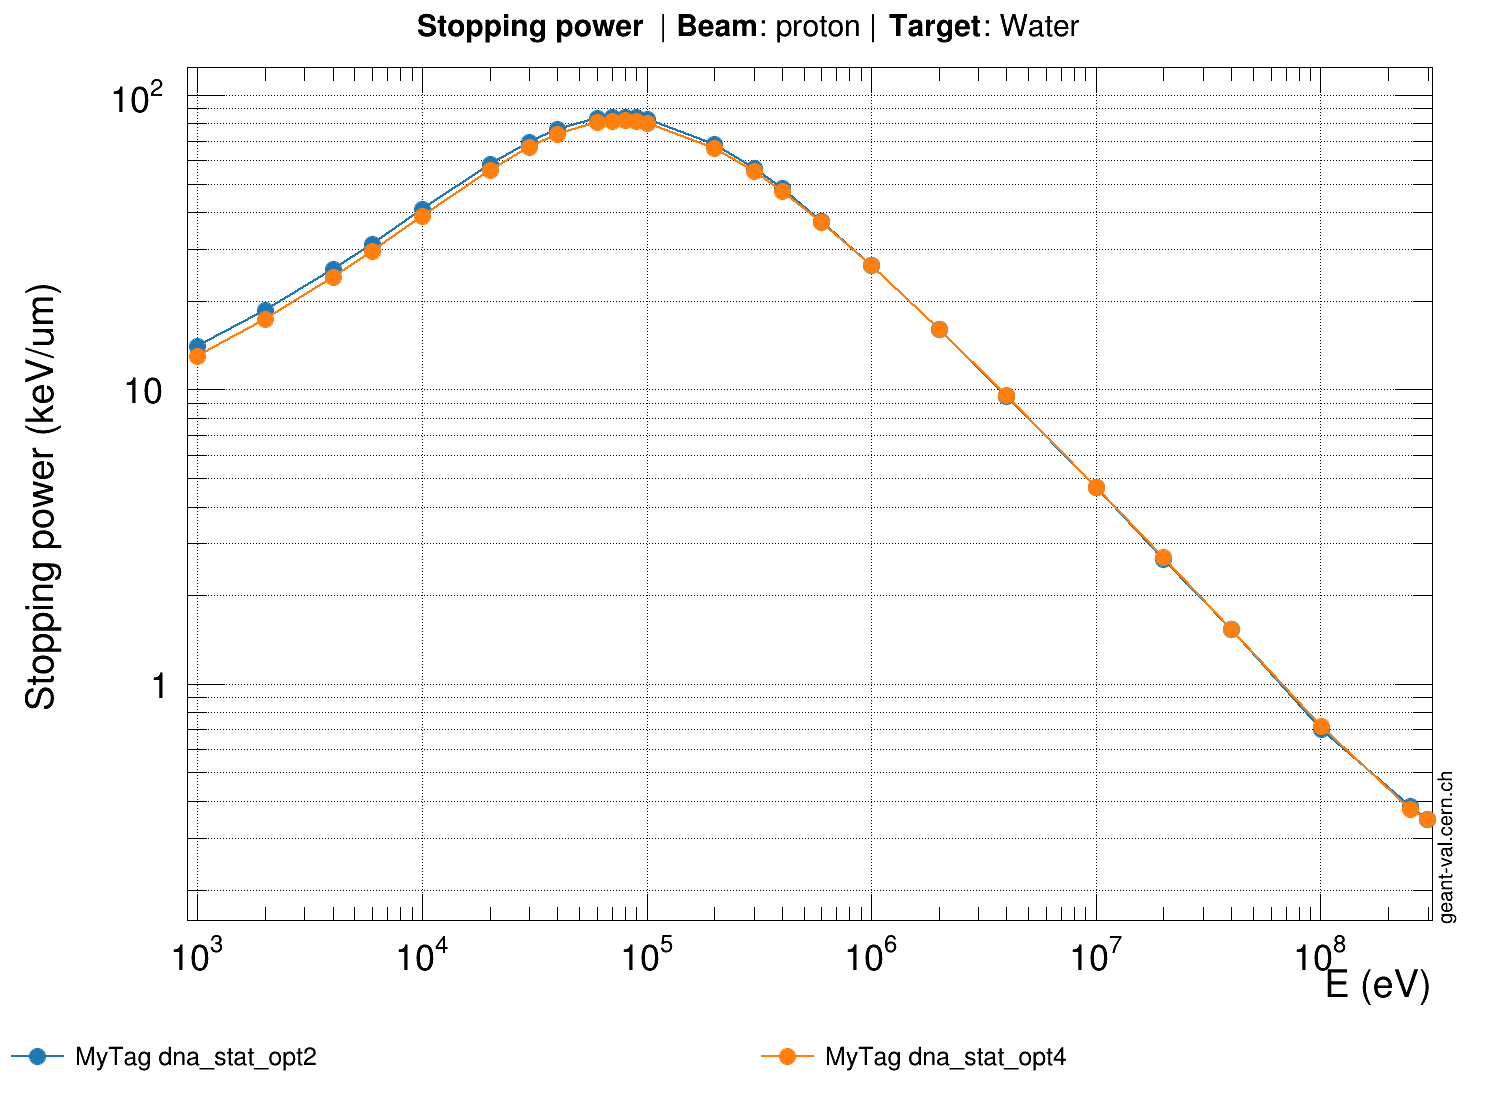
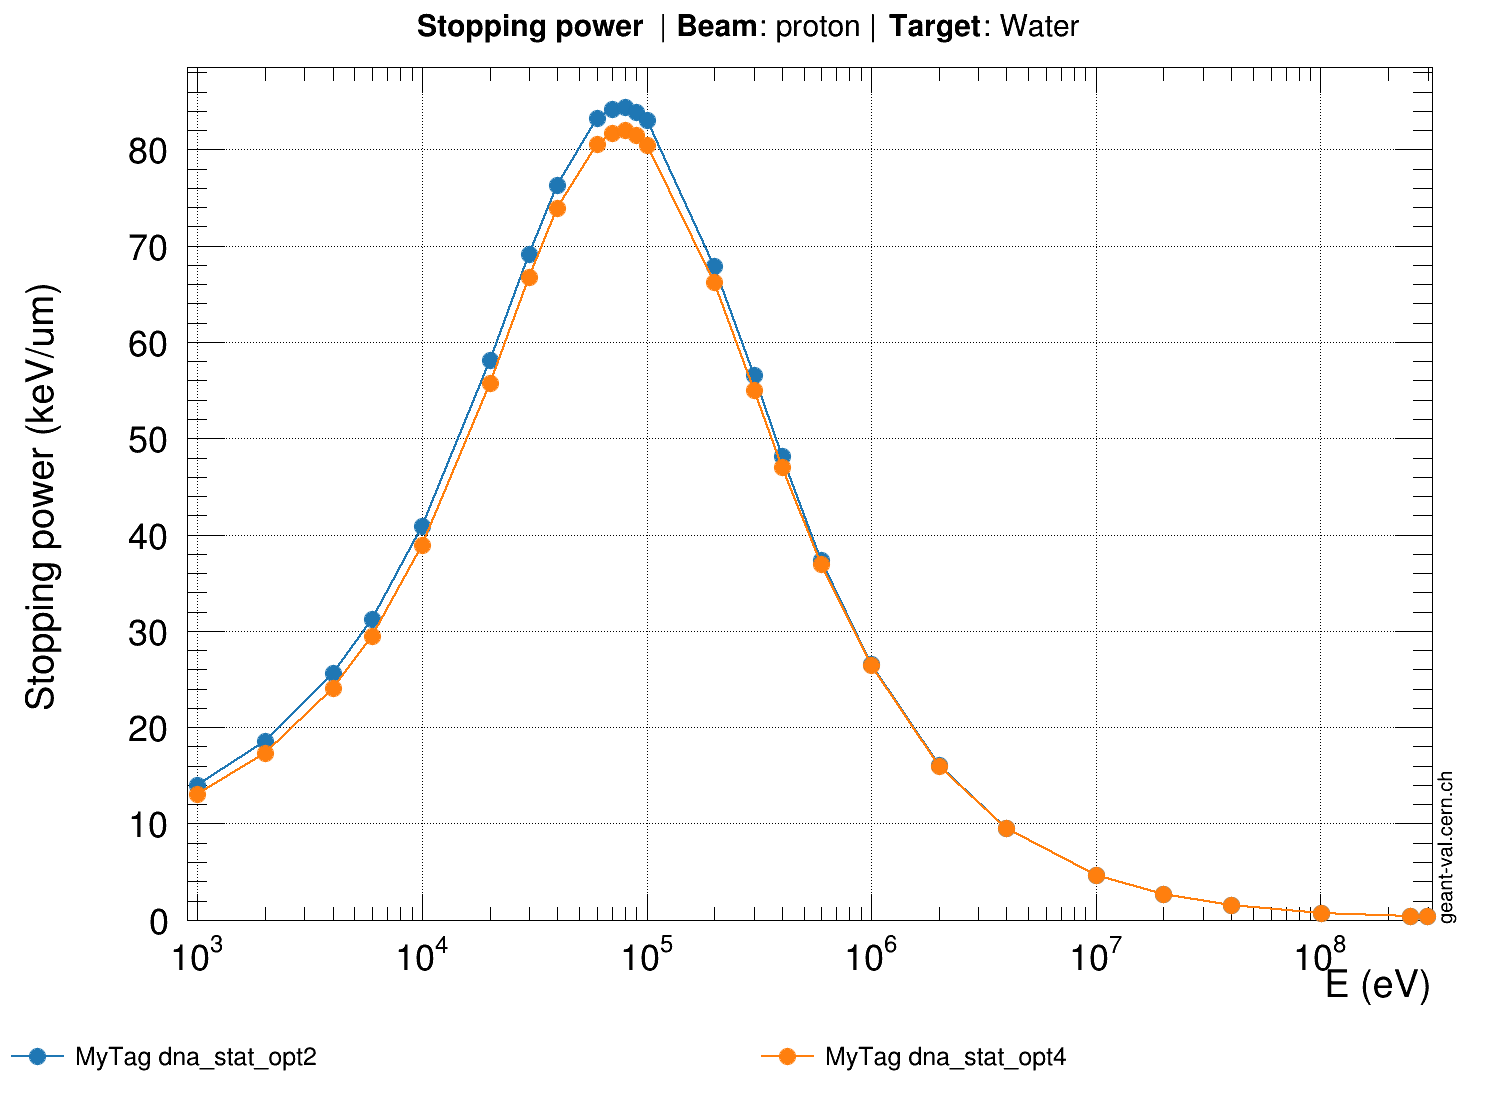
spower/proton.conf/MyTag : dim. juin  4 20:46:55 CEST 2023

diff --git a/assets/OUTPUTJSON/geant4/MyTag/x86_64/spower/proton.conf.c b/assets/OUTPUTJSON/geant4/MyTag/x86_64/spower/proton.conf.c
@@ -4438,3 +4438,243 @@ double gvp_id-1_yerrors[26] = {
   0,
   0
 };
+// Tool:               GEANT4
+// Version:            MyTag
+// Model:              dna_stat_opt2
+// Observable:         stopping power
+// Target:             Water
+// Beam Particle:      proton
+// Secondary Particle: None
+
+double gvp_id-1_x[26] = {
+  1000,
+  2000,
+  4000,
+  6000,
+  10000,
+  20000,
+  30000,
+  40000,
+  60000,
+  70000,
+  80000,
+  90000,
+  100000,
+  200000,
+  300000,
+  400000,
+  600000,
+  1e+06,
+  2e+06,
+  4e+06,
+  1e+07,
+  2e+07,
+  4e+07,
+  1.01e+08,
+  2.5e+08,
+  2.99e+08
+};
+double gvp_id-1_y[26] = {
+  13.9861,
+  18.5774,
+  25.6421,
+  31.2544,
+  40.8446,
+  58.0969,
+  69.1678,
+  76.3234,
+  83.2601,
+  84.1492,
+  84.3835,
+  83.8544,
+  83.0139,
+  67.9075,
+  56.5709,
+  48.137,
+  37.3264,
+  26.5294,
+  16.0267,
+  9.49555,
+  4.65711,
+  2.65028,
+  1.53794,
+  0.70328,
+  0.38599,
+  0.346701
+};
+double gvp_id-1_xerrors[26] = {
+  0,
+  0,
+  0,
+  0,
+  0,
+  0,
+  0,
+  0,
+  0,
+  0,
+  0,
+  0,
+  0,
+  0,
+  0,
+  0,
+  0,
+  0,
+  0,
+  0,
+  0,
+  0,
+  0,
+  0,
+  0,
+  0
+};
+double gvp_id-1_yerrors[26] = {
+  0,
+  0,
+  0,
+  0,
+  0,
+  0,
+  0,
+  0,
+  0,
+  0,
+  0,
+  0,
+  0,
+  0,
+  0,
+  0,
+  0,
+  0,
+  0,
+  0,
+  0,
+  0,
+  0,
+  0,
+  0,
+  0
+};
+// Tool:               GEANT4
+// Version:            MyTag
+// Model:              dna_stat_opt4
+// Observable:         stopping power
+// Target:             Water
+// Beam Particle:      proton
+// Secondary Particle: None
+
+double gvp_id-1_x[26] = {
+  1000,
+  2000,
+  4000,
+  6000,
+  10000,
+  20000,
+  30000,
+  40000,
+  60000,
+  70000,
+  80000,
+  90000,
+  100000,
+  200000,
+  300000,
+  400000,
+  600000,
+  1e+06,
+  2e+06,
+  4e+06,
+  1e+07,
+  2e+07,
+  4e+07,
+  1.01e+08,
+  2.5e+08,
+  2.99e+08
+};
+double gvp_id-1_y[26] = {
+  13.0184,
+  17.328,
+  24.031,
+  29.5155,
+  38.8907,
+  55.7066,
+  66.7433,
+  73.9359,
+  80.6045,
+  81.6979,
+  81.9627,
+  81.5103,
+  80.4321,
+  66.2496,
+  55.044,
+  47.0118,
+  36.9745,
+  26.4513,
+  15.9931,
+  9.55915,
+  4.64455,
+  2.69499,
+  1.53507,
+  0.719264,
+  0.375494,
+  0.347055
+};
+double gvp_id-1_xerrors[26] = {
+  0,
+  0,
+  0,
+  0,
+  0,
+  0,
+  0,
+  0,
+  0,
+  0,
+  0,
+  0,
+  0,
+  0,
+  0,
+  0,
+  0,
+  0,
+  0,
+  0,
+  0,
+  0,
+  0,
+  0,
+  0,
+  0
+};
+double gvp_id-1_yerrors[26] = {
+  0,
+  0,
+  0,
+  0,
+  0,
+  0,
+  0,
+  0,
+  0,
+  0,
+  0,
+  0,
+  0,
+  0,
+  0,
+  0,
+  0,
+  0,
+  0,
+  0,
+  0,
+  0,
+  0,
+  0,
+  0,
+  0
+};
